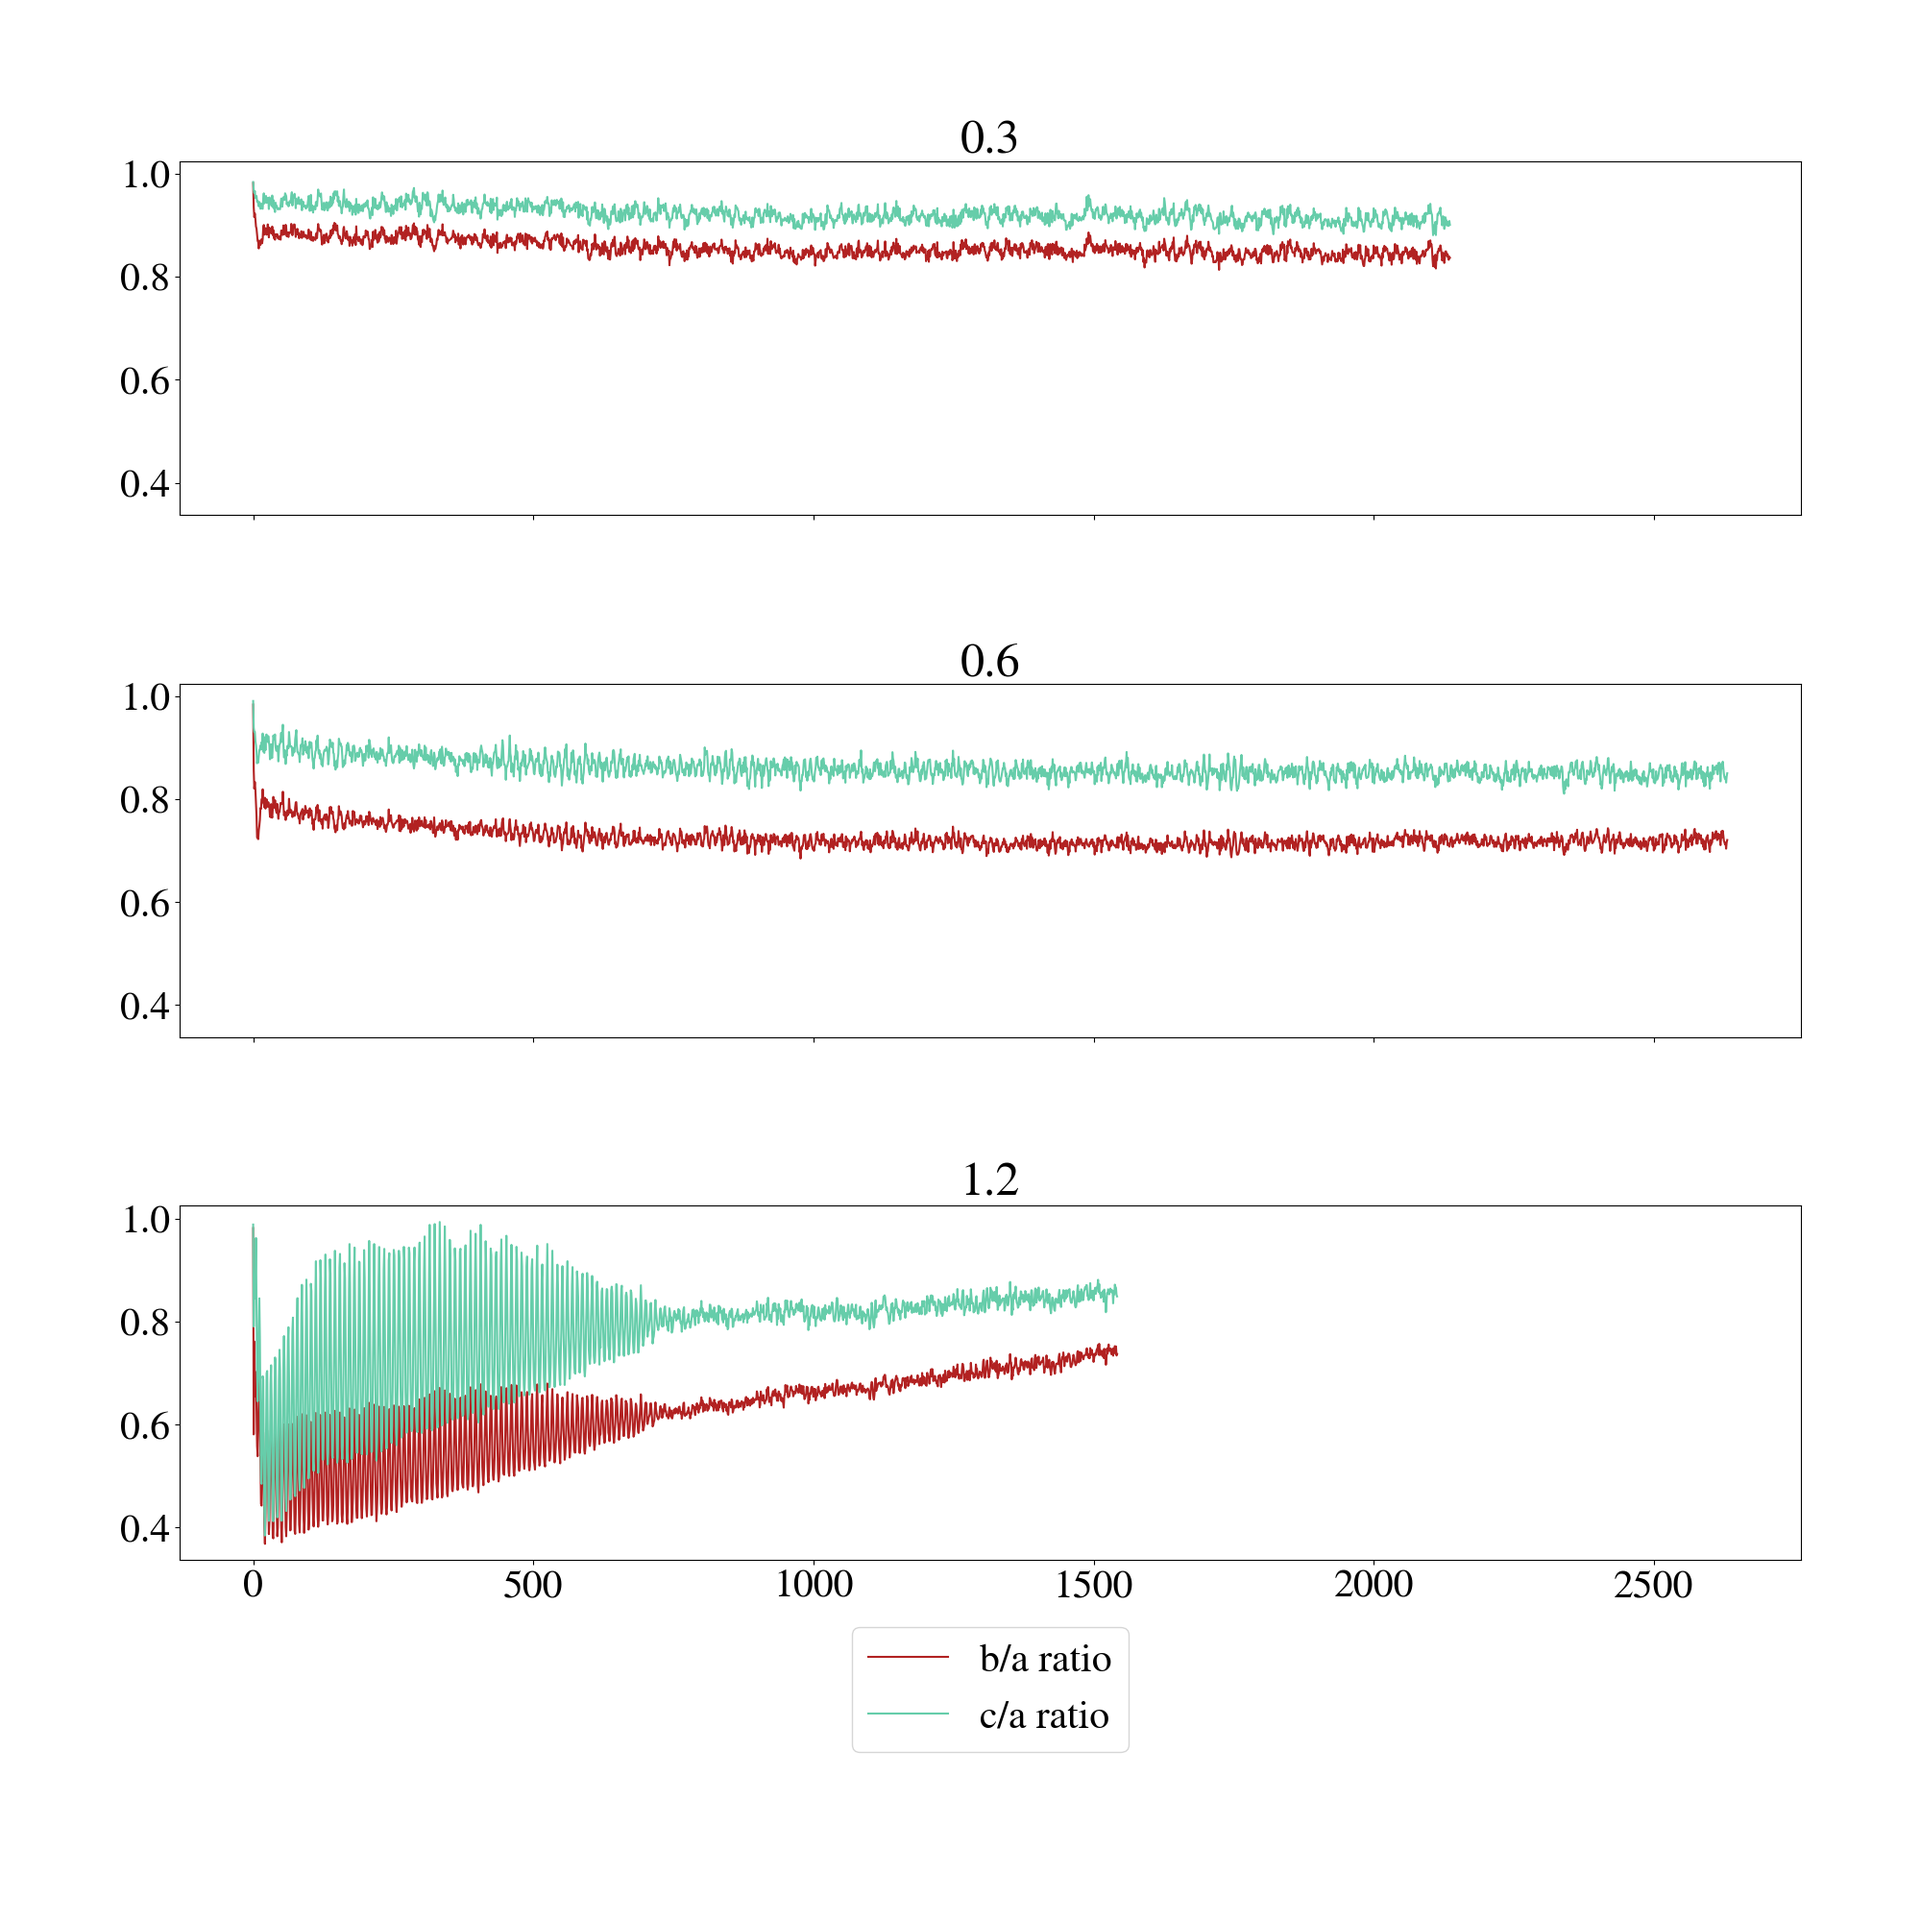
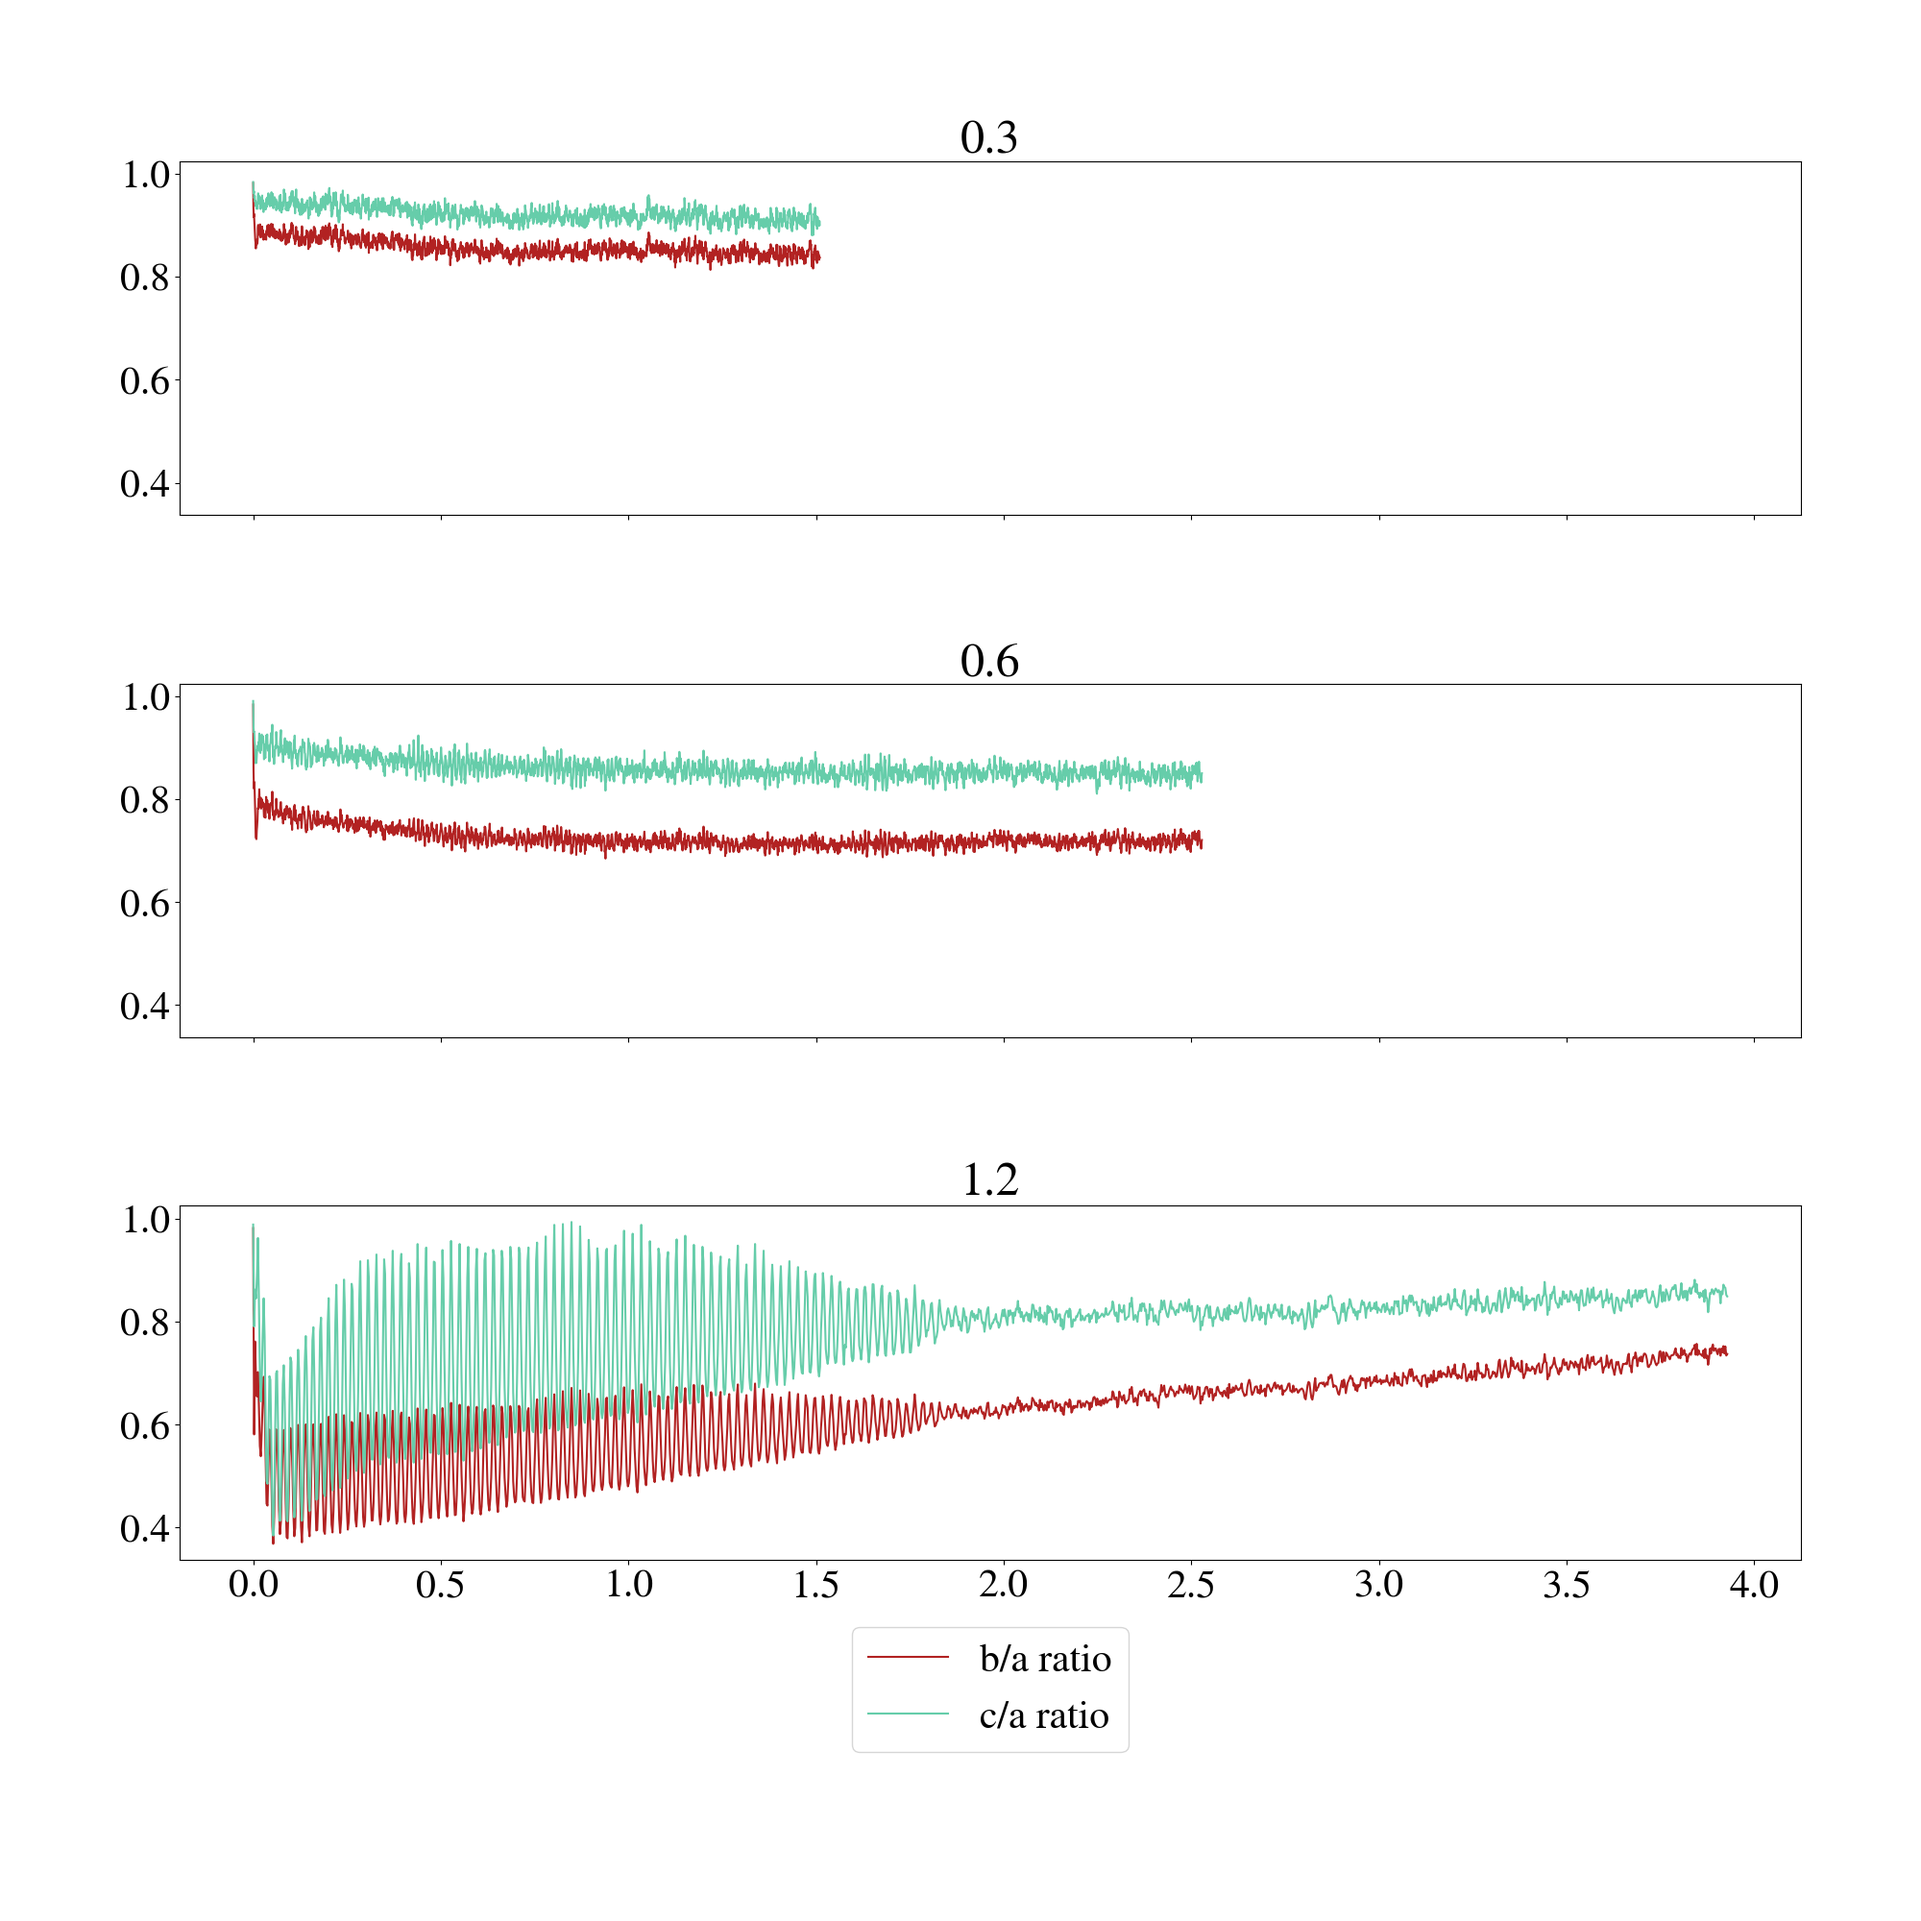
update plots to put x-axis in terms of half-mass relaxation time

diff --git a/axis_ratio_simulations/scripts/ratios_graphing.py b/axis_ratio_simulations/scripts/ratios_graphing.py
@@ -30,17 +30,26 @@ filenames = ["0p3", "0p6", "1p2"]
 M = [pickle.load(open("../data/pickled_data/"+ filenames[i] +"/M.pkl", "rb")) for i in range(len(filenames))]
 T = [pickle.load(open("../data/pickled_data/"+ filenames[i] +"/T.pkl", "rb")) for i in range(len(filenames))]
 
-names = ["0.3" , "0.6", "1.2"]
+# half-mass relaxation data for the x-axis
+cluster_data = [pickle.load(open("../data/pickled_data/"+ filenames[i] +"/cluster_data.pkl", "rb")) for i in range(len(filenames))]
+N = [cluster_data[i][0] for i in range(len(cluster_data))]
+r_h = [cluster_data[i][1] for i in range(len(cluster_data))]
 
 fig_full, ax_full = plt.subplots(3, 1, sharex=True, sharey=True)
 fig_full.set_size_inches(20, 20)
 
+names = ["0.3" , "0.6", "1.2"] 
 for i in range(len(names)):
+
+    hmrt = (0.138)*N[i]*r_h[i]**(3/2)/np.log10(0.11*N[i])
+    x = [T[i][j]/hmrt for j in range(len(T[i]))]
 
     a = np.array([M[i][j][0] for j in range(len(M[i]))])
     b = np.array([M[i][j][1] for j in range(len(M[i]))])
     c = np.array([M[i][j][2] for j in range(len(M[i]))])
 
+    print(len(x), len(a))
+    
     fig, ax = plt.subplots(4, 1, sharex=True, sharey=False)
     ax[0].plot(a/c, label="b/a ratio", color=colors[0]) ; ax[0].set_title("ratios")
     ax[0].plot(b/c, label="c/a ratio", color=colors[1]) ; ax[0].legend()
@@ -54,8 +63,12 @@ for i in range(len(names)):
     plt.savefig("../plots/"+names[i]+"_analysis.png")
 
     ax_full[i].set_title(names[i])
-    ax_full[i].plot(a/c, label="b/a ratio", color=colors[0])
-    ax_full[i].plot(b/c, label="c/a ratio", color=colors[1])
+    ax_full[i].plot(x, a/c, label="b/a ratio", color=colors[0])
+    ax_full[i].plot(x, b/c, label="c/a ratio", color=colors[1])
+
+    #orig = ax_full[i].get_xticks()
+    #new = [int(float(orig[j])/hmrt[i]) for j in range(len(orig))]
+    #ax_full[i].set_xticks(new)
 
 
 ax_full[2].legend(bbox_to_anchor=(0.5, -0.6), loc='lower center')

diff --git a/axis_ratio_simulations/scripts/tests.py b/axis_ratio_simulations/scripts/tests.py
@@ -42,15 +42,14 @@ M_rot, vecs_rot = iterate(rotated_pos)
 
 orig_rotated = np.matmul(rotation_matrix, vecs)
 
-print(orig_rotated)
-print(vecs_rot)
 
 '''
+
 from matplotlib import pyplot as plt
 from mpl_toolkits.mplot3d import Axes3D
 fig = plt.figure()
 ax1 = fig.add_subplot(111, projection='3d')
-ax2 = fig.add_subplot(121, projection='3d')
+ax2 = fig.add_subplot(122, projection='3d')
 
 #plot star positions
 ax1.plot(pos[:,0], pos[:,1], pos[:,2], '.', markersize=1, color="blue", label="original")
@@ -68,6 +67,7 @@ ax2.plot([-a*vecs_rot[2][0], a*vecs_rot[2][0]], [-a*vecs_rot[2][1], a*vecs_rot[2
 
 plt.legend()
 plt.show()
+
 '''
 
 print("tests successful")
